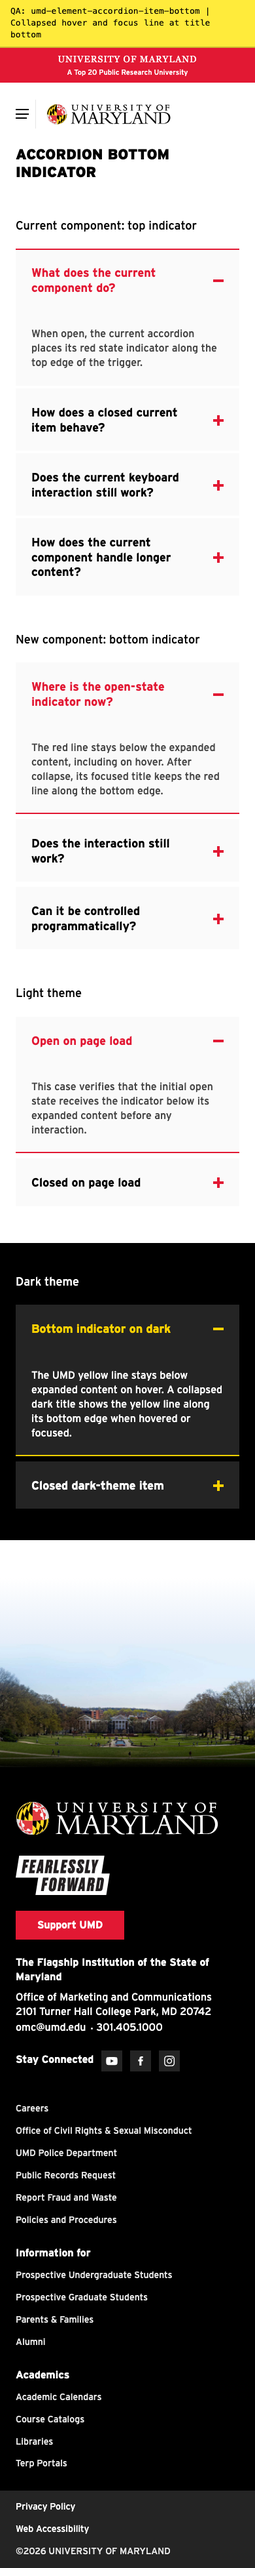
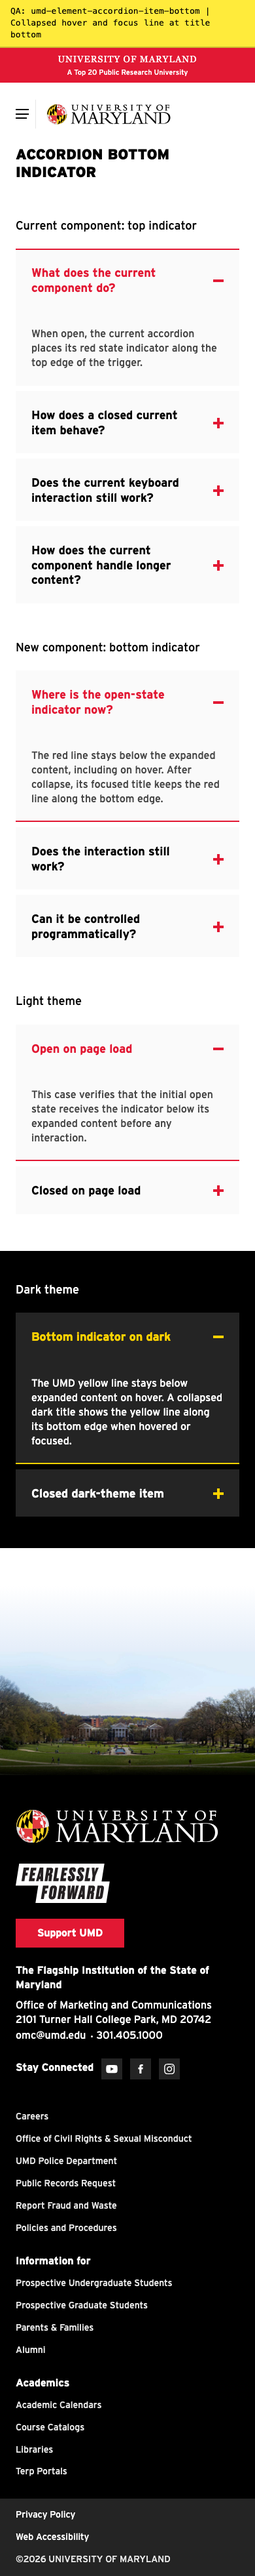
Set current accordion spacing to 8px

diff --git a/qa/accordion-bottom.html b/qa/accordion-bottom.html
@@ -598,7 +598,7 @@
     <section id="current" class="umd-layout-vertical-landing">
       <div class="umd-layout-space-horizontal-small">
         <h2 class="umd-sans-extralarge">Current component: top indicator</h2>
-        <div class="current-accordion-list" style="display:flex;flex-direction:column;gap:4px;margin-top:24px;">
+        <div class="current-accordion-list" style="display:flex;flex-direction:column;gap:8px;margin-top:24px;">
           <umd-element-accordion-item data-visual-open="true">
             <p slot="headline">What does the current component do?</p>
             <div slot="text">

diff --git a/test/accordion-bottom.test.js b/test/accordion-bottom.test.js
@@ -59,7 +59,7 @@ test('QA page includes current and new accordion comparisons', () => {
   );
   assert.match(
     qaPage,
-    /id="current"[\s\S]*?class="current-accordion-list"[^>]*display:flex;flex-direction:column;gap:4px/,
+    /id="current"[\s\S]*?class="current-accordion-list"[^>]*display:flex;flex-direction:column;gap:8px/,
   );
   assert.match(
     qaPage,
